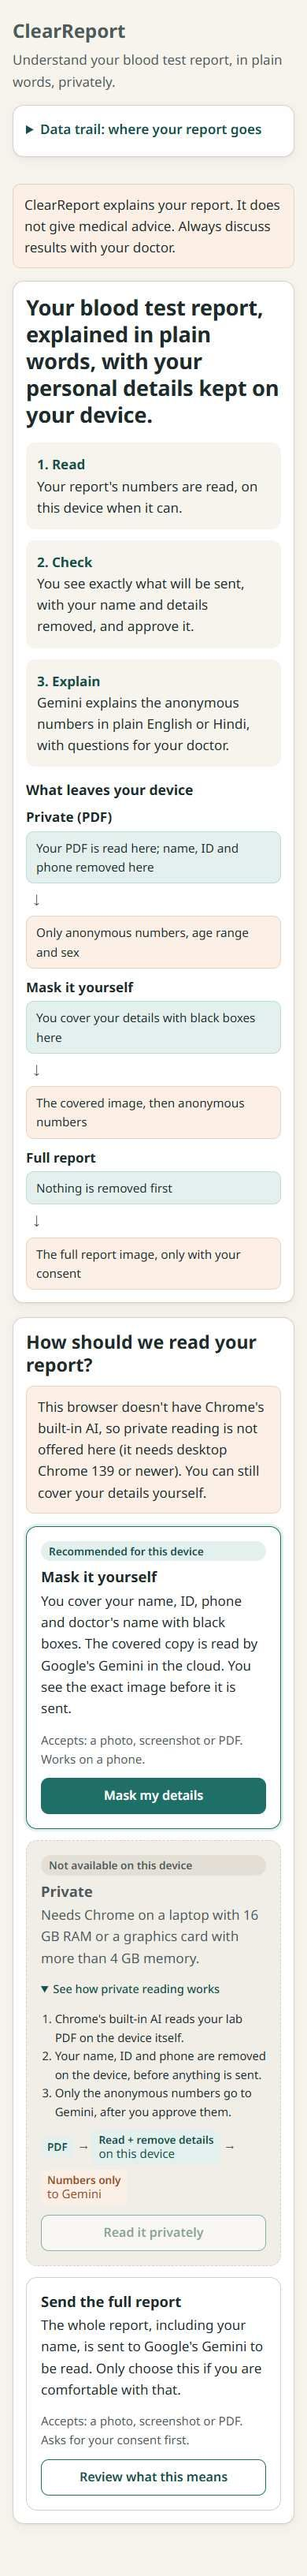
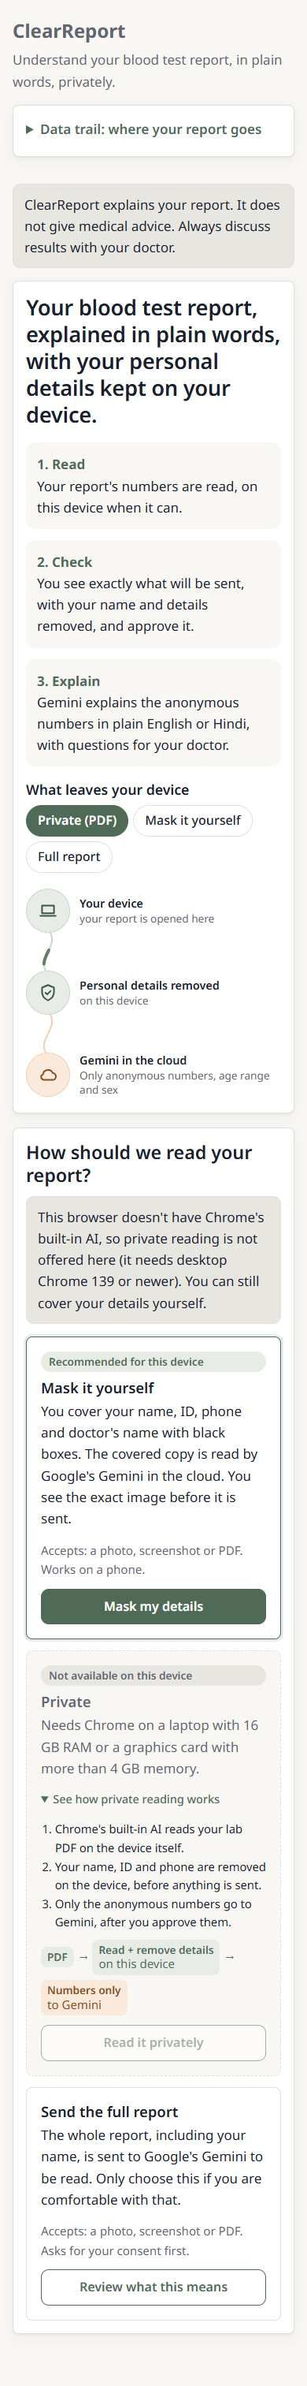
Screenshots and beam GIF for the Sage theme; README design credits

diff --git a/README.md b/README.md
@@ -179,3 +179,12 @@ All of it, from scratch, starting 21 November 2026: the three paths, the on-devi
 ## License
 
 [Apache-2.0](LICENSE)
+
+## Design credits
+
+No UI library is installed. These MIT-licensed designs were used as visual references only and rebuilt in plain CSS and SVG:
+
+- Theme colours based on "Sage Garden" from 21st.dev, adjusted so every pair passes WCAG AA (`npx tsx scripts/contrast.ts --table`).
+- The "What leaves your device" beam: Magic UI "Animated Beam" by dillionverma, MIT, https://21st.dev/@dillionverma/components/animated-beam
+- The Data trail timeline: Dice UI "Timeline", MIT, https://21st.dev/@diceui/components/timeline
+- The upload drop zone: "File Upload" by Edu Calvo (educlopez), MIT, https://21st.dev/@educlopez/components/file-upload
